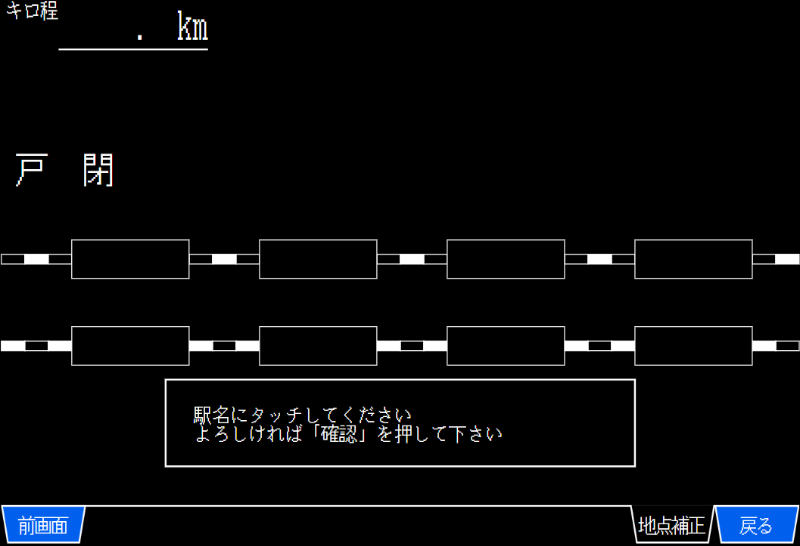
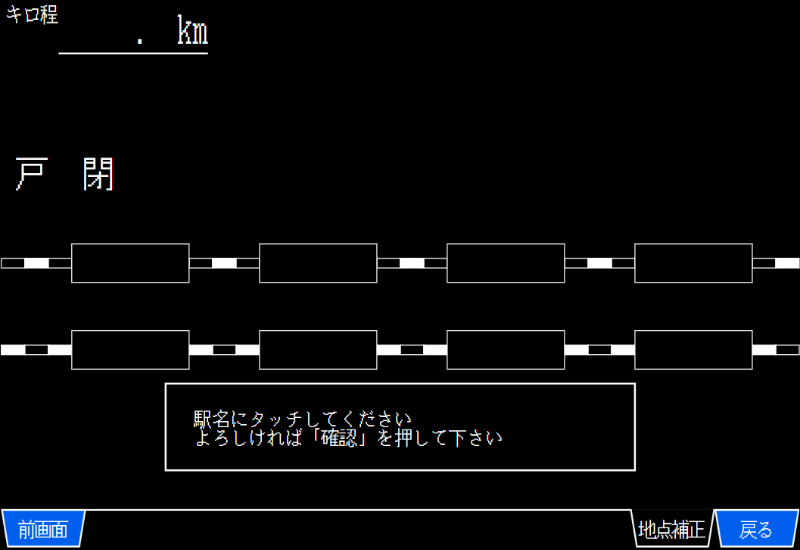
ヘッダサイズ調整
54px -> 50px
種別ページに適合しなかったため

diff --git a/TR.caMonPageMod.JRCMon/Constants.cs b/TR.caMonPageMod.JRCMon/Constants.cs
@@ -7,7 +7,7 @@ static internal class Constants
 	public const int DISPLAY_WIDTH = 800;
 	public const int DISPLAY_HEIGHT = 600;
 
-	public const int HEADER_HEIGHT = 54;
+	public const int HEADER_HEIGHT = 50;
 	public const int BODY_HEIGHT = DISPLAY_HEIGHT - HEADER_HEIGHT;
 
 	public static readonly FontFamily FONT_FAMILY = new("JF Dot Ayu Mincho 18");
